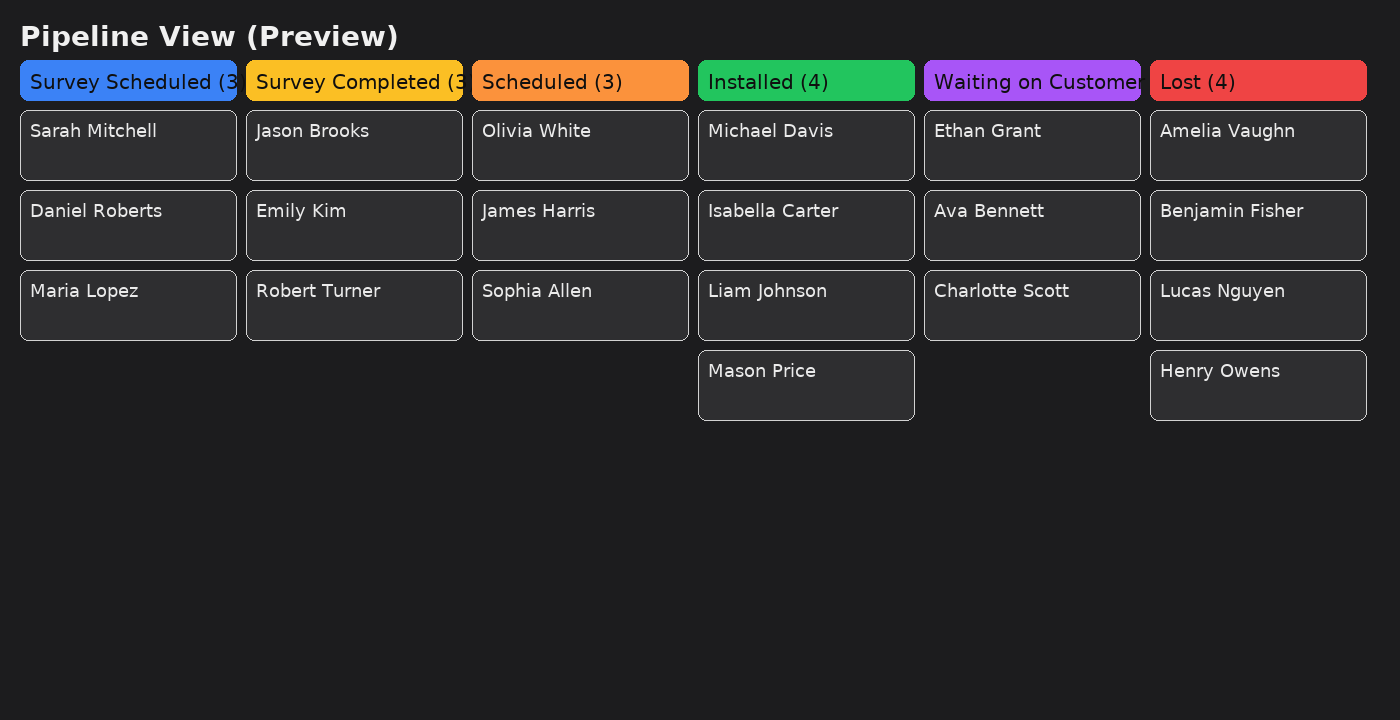
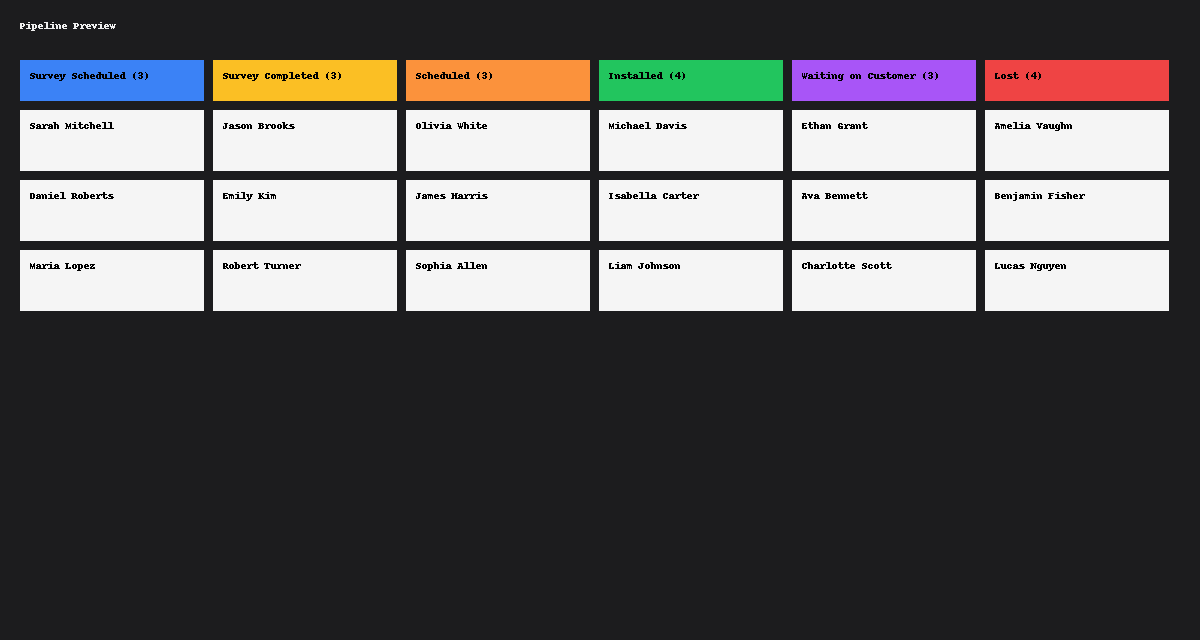
Add files via upload

diff --git a/app.py b/app.py
@@ -1,10 +1,7 @@
 
-# Pioneer Sales Lead App – v19.10.28
+# Pioneer Sales Lead App – v19.10.29
 import streamlit as st
 import pandas as pd
-import requests
-from datetime import datetime
-import os, csv
 from streamlit_sortables import sort_items
 
 st.set_page_config(page_title="Pioneer Sales Lead App", page_icon="📶", layout="wide")
@@ -19,6 +16,8 @@ COLORS = {
     "Lost": "#ef4444"
 }
 
+df = pd.read_csv("saleslead_seed.csv")
+
 def build_groups(src_df):
     groups = {s: [] for s in STATUS_LIST}
     for _, r in src_df.iterrows():
@@ -27,21 +26,24 @@ def build_groups(src_df):
         groups[s].append(label)
     return groups
 
-# Pipeline tab (snippet with fix)
-df = pd.read_csv("saleslead_seed.csv")
 groups = build_groups(df)
+
 container_names = []
 mapped_groups = {}
+styles = []
 for s in STATUS_LIST:
     header = f"{s} ({len(groups.get(s, []))})"
     container_names.append(header)
     mapped_groups[header] = groups.get(s, [])
+    styles.append({"background": COLORS[s], "color":"#111"})
 
 updated = sort_items(
     items=mapped_groups,
     multi_containers=True,
     direction="horizontal",
     container_names=container_names,
-    container_styles=[{"background": COLORS[s], "color":"#111"} for s in STATUS_LIST],
+    container_styles=styles,
     style={"height":"560px"},
 )
+
+st.write(updated)

diff --git a/README.md b/README.md
@@ -1,4 +1,4 @@
-# Pioneer Sales Lead App – v19.10.28
+# Pioneer Sales Lead App – v19.10.29
 
-- Pipeline fixed (counts + drag-and-drop)
+- Pipeline container alignment fixed (no TypeError)
 - Fresh seed & cleared audit log

diff --git a/CHANGELOG.md b/CHANGELOG.md
@@ -1,4 +1,4 @@
-# v19.10.28
-- Fixed Pipeline drag/drop with counts
+# v19.10.29
+- Fixed Pipeline container alignment
 - Fresh seed CSV (20 tickets)
 - Cleared audit log
